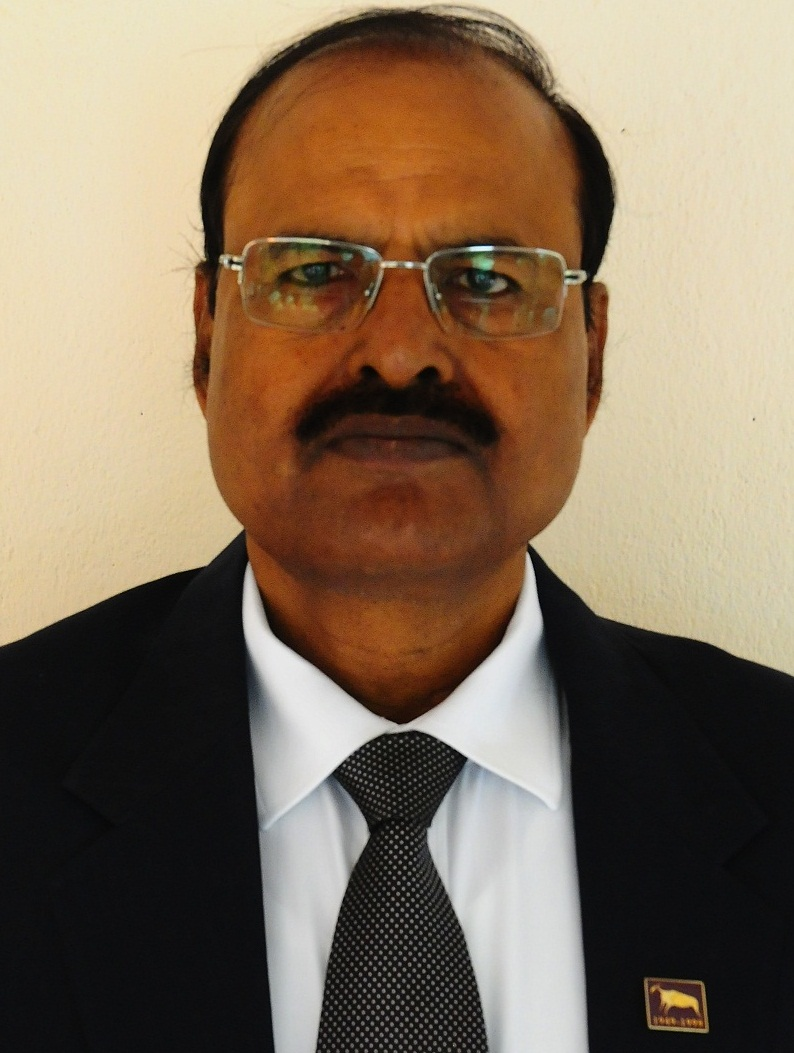
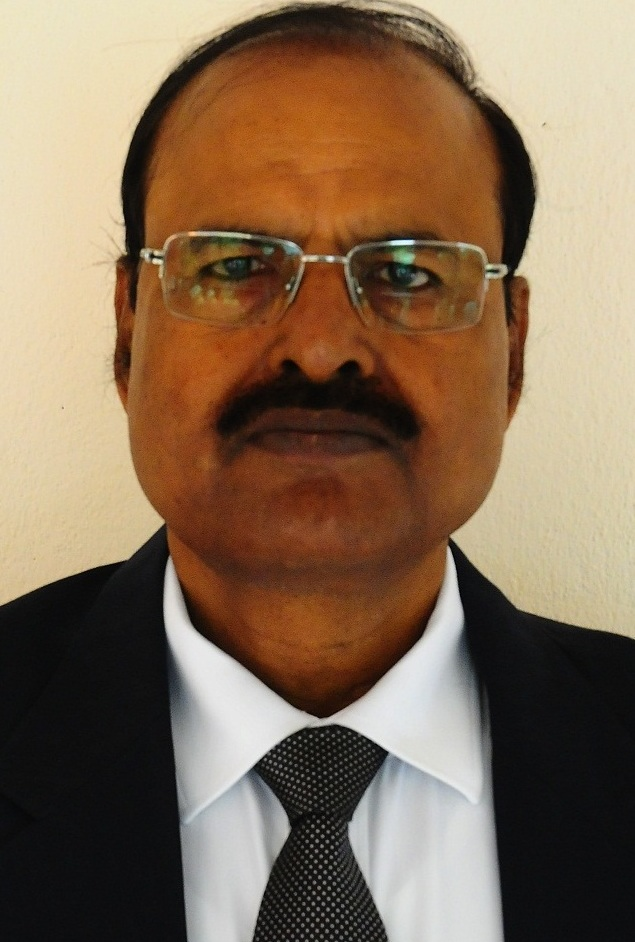
change in index-one.html

diff --git a/index-one.html b/index-one.html
@@ -72,11 +72,8 @@
                             <li> <a class="page-scroll" href="#gallery">Gallery</a> </li>
                             <li> <a class="page-scroll" href="#venue">Venue</a> </li>
                             <li> <a class="page-scroll" href="#sponsors">Sponsors</a> </li> 
-                            <li> <a class="page-scroll" href="#contact">Contact</a></li>
-                            <li> <a class="page-scroll" href="http://ncitba.smvdu.ac.in/">Previous Conference</a> </li>
-                            <!-- <li> <a class="page-scroll" href="#contact">Call for Special Session</a></li>
-                            <li> <a class="page-scroll" href="#contact">Travel & Accomodation</a></li>
-                            <li> <a class="page-scroll" href="#contact">How to Reach</a></li> -->
+                            <li> <a class="page-scroll" target="_blank" href="http://ncitba.smvdu.ac.in/">Previous Conference</a> </li>
+                          
                            </ul>
                     </div>
                     <!-- /.navbar-collapse -->
@@ -155,10 +152,11 @@
                 <div class="row">
                     
                         <div class="organizer-col">
-                            <h3 style="color:red" class="col text-center">Organized <span>By</span> CSE TEAM</h3>
+                        <h4  style="color:red;font-size: 30px" class="col text-center">Organized <span>By</span> CSE TEAM</h4>
+                            <div class="col text-center">
                             <div class="col-md-6 col-sm-6 col-xs-6 fw-600" class="card1">
-                                    <h3>PROGRAM CHAIR</h3>
-                            <img src="images/vc.jpg" style="width:300px;height:350px" >
+                                    <h4 style="font-size: 30px">PROGRAM CHAIR</h4>
+                            <img src="images/vc.jpg" style="width:200px;height:250px" >
                             <div class="contain">
                               <h4><b>Prof. Ravindra Kumar Sinha</b></h4> 
                               <p>Vice Chancellor <br>
@@ -168,8 +166,8 @@
                           </div>
 
                             <div class="col-md-6 col-sm-6 col-xs-6 fw-600" class="card1">
-                                    <h3>CONVENER</h3>
-                            <img src="images/ajaykaul.png" style="width:300px;height:350px">
+                                    <h3 style="font-size: 30px">CONVENER</h3>
+                            <img src="images/ajaykaul.png" style="width:200px;height:250px">
                             <div class="contain">
                               <h4><b>DR. AJAY KAUL</b></h4> 
                               <p>Department of Computer Science & Engg,<br>
@@ -178,11 +176,11 @@
                             </div>
                           </div>
 
-                            <div class="col text-center">
-                                    <h3>CO-CONVENER</h3>
+                            
+                                    <h3 style="font-size: 40px">CO-CONVENER</h3>
                           <div class="col-md-4 col-sm-6 col-xs-6 fw-600" class="card1" >
                                 
-                        <img src="images/sunanda.png" style="width:300px; height: 350px" >
+                        <img src="images/sunanda.png" style="width:200px;height:250px" >
                         <div class="contain">
                           <h4><b>Dr. Sunanda Gupta</b></h4> 
                           <p>Department of Computer Science & Engg,<br>
@@ -194,7 +192,7 @@
                         
                       <div class="col-md-4 col-sm-6 col-xs-6 fw-600" class="card1">
                             
-                    <img src="images/shakshi.jpeg" style="width:300px; height: 350px" >
+                    <img src="images/shakshi.jpeg" style="width:200px;height:250px" >
                     <div class="contain">
                       <h4><b>Dr. Sakshi Arora</b></h4> 
                       <p>Department of Computer Science & Engg,<br>
@@ -205,7 +203,7 @@
     
                   <div class="col-md-4 col-sm-6 col-xs-6 fw-600" class="card1">
                         
-                <img src="images/naveen.jpg"style="width:300px; height: 350px" >
+                <img src="images/naveen.jpg"style="width:200px;height:250px" >
                 <div class="contain">
                   <h4><b>Dr. Naveen Kumar Gondhi</b></h4> 
                   <p>Department of Computer Science & Engg,<br>
@@ -229,47 +227,47 @@
             <div class="row title-row">
                 <div class="col-12 font-thin"><p><marquee><font color="Black">
                         <br><br>
-                    <h2>*Important Dates*</h2></font></marquee></p></div>
+                    <h3>*Important Dates*</h3></font></marquee></p></div>
               </div><!-- /row -->
             
                 <table class="table table-reflow">
           
              
-          <tbody>
-          <tr style="font-size: 2.0em">
+          <tbody class="col text-center">
+          <tr style="font-size: 1.37em">
               
               <td class="table-warning">
                 Submission Open</td>
               <td class="table-warning">	<font color="#141e30">September 20, 2019</font></td>
              
             </tr>
-            <tr style="font-size: 2.0em">
+            <tr style="font-size: 1.37em">
               
               <td class="table-warning">Submission Deadline</td>
               <td class="table-warning"><font color="#141e30">November 20, 2019</font></td>
              
             </tr>
-            <tr style="font-size: 2.0em">
+            <tr style="font-size: 1.37em">
               
               <td>Review</td>
               <td><font color="#141e30">December 07, 2019</font></td>
              
             </tr>
           
-            <tr style="font-size: 2.0em">
+            <tr style="font-size: 1.37em">
               
               <td>Acceptance Notification</td>
               <td><font color="#141e30">December 15, 2019</font></td>
               
             </tr>
           
-            <tr style="font-size: 2.0em">
+            <tr style="font-size: 1.37em">
               
               <td>Final Paper Submission</td>
               <td><font color="#141e30">December 23, 2019</font></td>
               
             </tr>
-            <tr style="font-size: 2.0em">
+            <tr style="font-size: 1.37em">
               
                     <td>Conference Dates</td>
                     <td><font color="#141e30">February 25-26, 2020</font></td>
@@ -682,7 +680,13 @@
                         </div>
                         <div class="info-box">
                             <i class="flaticon-mail"></i>
-                            <p>Yourmail@gmail.com<br>Yourmail@gmail.com</p>
+                            <p>icitda@smvdu.ac.in</p>
+
+                            <div class="info-box">
+                                    <i class="flaticon-phone-call"></i>
+                                    <p>+91 9858363271</p>
+                                </div>
+
                         </div>
                     </div>
                 </div>
@@ -692,22 +696,8 @@
                     </div>
                 </div>
                 <div class="col-md-3">
-                    <div class="venue-col">
-                        <div class="info-box">
-                            <i class="flaticon-phone-call"></i>
-                            <p>+91  <br> +91 </p>
-                        </div>
-                        <div class="info-box">
-                            <h4>Social Link</h4>
-                            <ul>
-                                <li><a href="#"><i class="flaticon-facebook-logo-button"></i></a></li>
-                                <li><a href="#"><i class="flaticon-twitter-logo-button"></i></a></li>
-                                <li><a href="#"><i class="flaticon-linkedin-button"></i></a></li>
-                                <li><a href="#"><i class="flaticon-dribble-logo-button"></i></a></li>
-                                <li><a href="#"><i class="flaticon-google-plus-logo-button"></i></a></li>
-                            </ul>
-                        </div>
-                    </div>
+                        <div id="map" class="theme-color" style="height: 400px; width: 100%;"></div> 
+
                 </div>
             </div>
         </div>
@@ -786,40 +776,7 @@
         </div>
     </section>
 
-    <!-- Google map -->
-    <div id="map" class="theme-color" style="height: 400px; width: 100%;"></div>
-    <!-- Contact Start -->
-    <section class="contact-area" id="contact">
-        <img class="left-img" src="images/left-img.png" alt="">
-        <img class="right-img" src="images/right-img.png" alt="">
-        <div class="container">
-            <div class="row">
-                <div class="">
-                    <div class="col-md-4 col-sm-6">
-                        <div class="contact-col contact-infobox">
-                            <i class="fa fa-envelope-o" aria-hidden="true"></i>
-                            <p>yourmailone@gmail.com</p>
-                            <p>yourmailtwo@gmail.com</p>
-                        </div>
-                    </div>
-                    <div class="col-md-4 col-sm-6">
-                        <div class="contact-col contact-infobox">
-                            <i class="fa fa-phone" aria-hidden="true"></i>
-                            <p>+91</p>
-                            <p>+91</p>
-                        </div>
-                    </div>
-                    <div class="col-md-4 col-sm-6">
-                        <div class="contact-col contact-infobox">
-                            <i class="fa fa-map-marker" aria-hidden="true"></i>
-                            <p>Shri Mata Vaishno Devi University<br>katra,jammu and kashmir,182320</p>
-                        </div>
-                    </div>
-                </div>
-            </div>
-            
-        </div>
-    </section>
+   
 
     <!-- Footer Start -->
     <footer class="footer-area">
@@ -837,9 +794,6 @@
                             <i class="fa fa-linkedin" aria-hidden="true"></i>
                        </a>
                        <a href="#set-4" class="hi-icon">
-                           <i class="fa fa-dribbble" aria-hidden="true"></i>
-                       </a>
-                       <a href="#set-4" class="hi-icon">
                             <i class="fa fa-google-plus" aria-hidden="true"></i>
                        </a>
                    </div> 
@@ -852,7 +806,7 @@
         <div class="container">
             <div class="row">
                 <div class="col-md-12 text-center">
-                    <p>©2020.name</p>
+                    <p>Copyright © 2019 Department of Computer Science & Engineering, SMVDU, Katra J&K</p>
                 </div>
             </div>
         </div>

diff --git a/css/style.css b/css/style.css
@@ -128,8 +128,8 @@ Author Name: bdCoder
   margin-bottom: 50px;
 }
 .gallery img {
-  width: 450px;
-  height: 350px;
+  width: 300px;
+  height: 250px;
   padding-bottom: 10px;
 }
 
